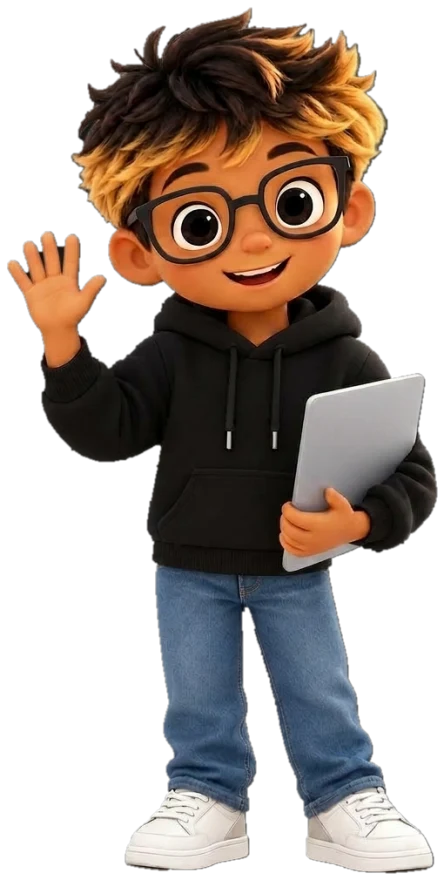
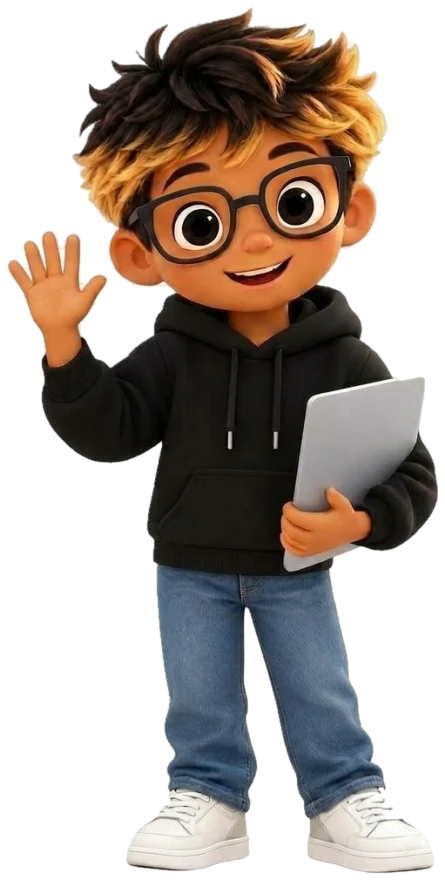
adjusting ambassador

diff --git a/components/sections/agents-page-content.tsx b/components/sections/agents-page-content.tsx
@@ -121,7 +121,7 @@ export function AgentsPageContent() {
               <Image
                 src="/agent_ambassador.webp"
                 alt="Talk to me Data's AI agent ambassador waving hello"
-                width={444}
+                width={445}
                 height={880}
                 priority
                 className="relative h-auto w-full select-none"
